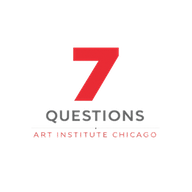
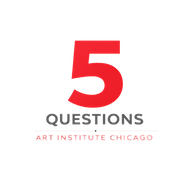
feat: go with 5

Changed region(s): [[0.1562, 0.1875, 0.8125, 0.75]]

diff --git a/src/routes/index.tsx b/src/routes/index.tsx
@@ -407,7 +407,7 @@ const Results = component$<ResultsProps>((props) => {
 });
 
 export const head: DocumentHead = {
-  title: "Seven Questions a Day from the Art Institute of Chicago",
+  title: "Five Questions a Day about Art | Art Institute of Chicago",
   meta: [
     {
       name: "description",
@@ -440,7 +440,7 @@ export default component$(() => {
           height: "auto",
           display: "block",
           maxHeight: "clamp(200px, 35vh, 400px)",
-          objectFit: "cover",
+          objectFit: "contain",
         }}
         width={IMAGE_WIDTH}
         height={IMAGE_HEIGHT}
